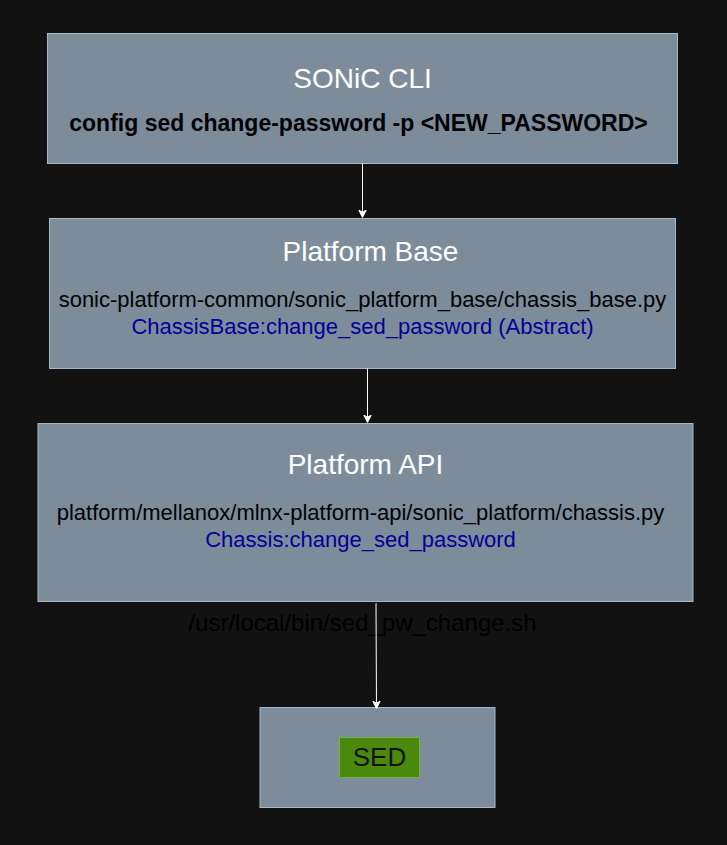
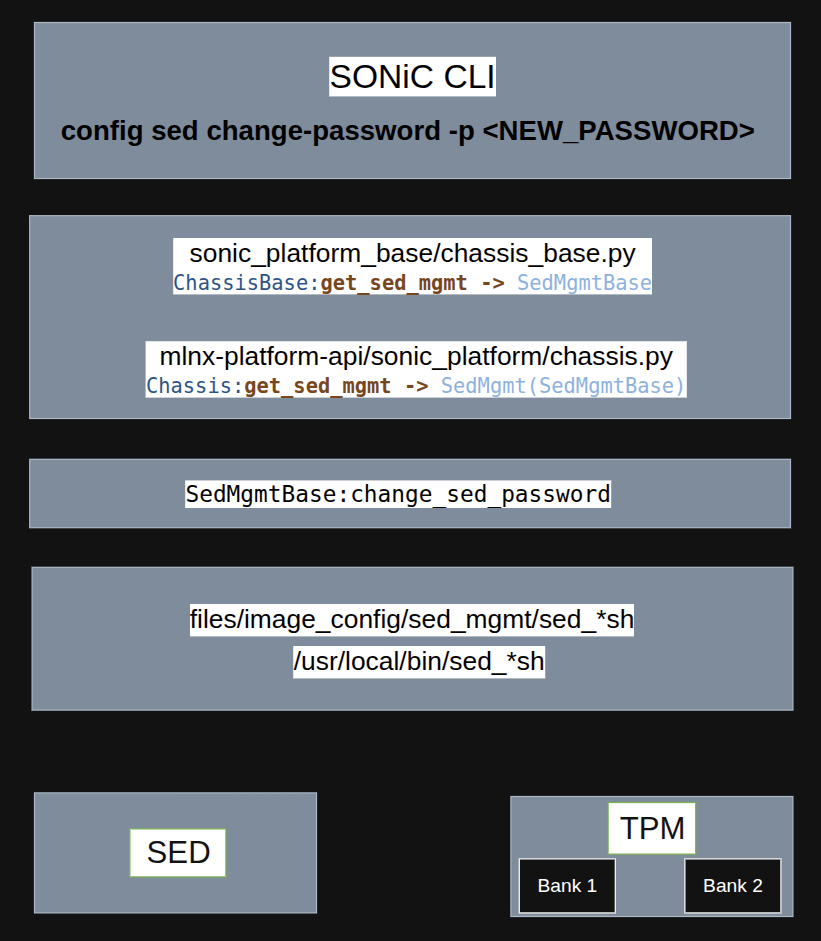
common hld

diff --git a/doc/sed/change_sed_password_hld.md b/doc/sed/change_sed_password_hld.md
@@ -4,93 +4,121 @@
 
 | Rev | Date | Author | Change Description |
 |:---:|:----:|:------:|:-------------------|
-| 0.1 | 01/2026 | | Initial version |
+| 0.1 | 03/2026 | | Initial version |
 
 ## 2. Scope
 
-This document describes the high-level design for "Change SED (Self-Encrypting Drive) password" in SONiC.
-It covers the ability to change and reset SED passwords through SONiC CLI commands using the platform API.
+This document describes the high-level design for SED (Self-Encrypting Drive) password management in SONiC.
+It covers changing and resetting SED passwords via SONiC CLI using the platform API.
 
 ## 3. Definitions/Abbreviations
 
 | Definitions/Abbreviation | Description |
 |--------------------------|-------------|
 | SED | Self-Encrypting Drive |
+| TPM | Trusted Platform Module |
+| PBA | Pre-boot Authentication |
 
 ## 4. Overview
 
-Self-Encrypting Drives (SEDs) provide hardware-based encryption for storage devices, protecting all data on the drive.
-SEDs are typically enabled at the factory, and come with a default password. Without the correct password, the drive remains locked and data is inaccessible.
-There is a dedicated software which responsible for unlocking the disk before the boot (PBA - Pre-boot Authentication) - It doesn't part of the NOS.
+Self-Encrypting Drives (SEDs) provide hardware-based encryption for storage devices.
+SEDs are typically enabled at the factory with a default password. Without the correct password, the drive remains locked and data is inaccessible.
+A dedicated pre-boot component (PBA) is responsible for unlocking the disk before the OS boots; that component is outside SONiC.
 
-A key use case is replacing the default password to improve security.
-While it is technically possible to change the SED password using external tools such as sedutil-cli, it is safer and more consistent to provide a SONiC CLI that wraps this functionality.
+A key use case is replacing the default password for security. SONiC provides a CLI that wraps SED password change and reset.
+The design is largely common across platforms:
+shared scripts and a recovery service use TPM banks to store and recover the SED password, with platform-specific values supplied via configuration and a small platform layer.
 
-SONiC's responsibility is to provide the CLI infrastructure to change and reset the SED password using a new SONiC CLI.
-This feature introduces vendor-agnostic CLI commands.
-The CLI provides a consistent interface, while the underlying implementation is platform-specific,
-allowing each vendor to integrate with its own tooling, secure storage mechanisms, and boot-time unlock flows according to the platform capabilities.
+- **Common:** CLI, `SedMgmtBase` API, `sedutil` package, scripts (`sed_pw_change.sh`, `sed_pw_reset.sh`, `sed_pw_utils.sh`, `sed_pw_tpm_recovery.sh`),
+recovery systemd service, and config file format (`/etc/sonic/sed_config.conf` for TPM bank addresses).
+- **Platform-specific:** Chassis returns a `SedMgmt` instance (or `None`), implementation of abstract getters (password length bounds, default password), and any platform-only scripts.
 
 ## 5. Requirements
 
 | Requirement | Description |
 |-------------|-------------|
-| SSD | SSD with an activated SED support (LockingEnabled = Y LockingSupported = Y) |
-| Platform Support | Platform must implement chassis APIs for SED management (`change_sed_password`, `reset_sed_password`) |
+| SSD | SSD with SED support enabled (e.g. LockingEnabled = Y, LockingSupported = Y) |
+| Platform support | Platform that supports SED management provides a `SedMgmt` implementation and exposes it via `chassis.get_sed_mgmt()`. |
+| TPM / config | For TPM-based platforms: TPM banks for current SED password (A/B). Config file `/etc/sonic/sed_config.conf` supplies `tpm_bank_a` and `tpm_bank_b` where applicable. |
 
 ## 6. Architecture Design
 
-The SED password management feature integrates with SONiC's existing platform API architecture. The CLI commands interact with the platform's chassis object to perform SED password operations.
+The feature integrates with SONiC's platform API:
 
-## 7. High-Level Design
-
-This feature is generic at the CLI and API level, but necessarily platform-specific at the execution layer.
-This is because SED enablement, tooling, cryptography, secret storage, and boot-time unlock flows are all vendor-defined and highly platform-dependent.
-This design follows the standard SONiC model:
-Common user interface + Abstract platform API + Vendor-owned implementation.
+- **CLI** (`config sed change-password`, `config sed reset-password`) obtains the chassis and calls `chassis.get_sed_mgmt()`.
+If the result is `None`, the CLI reports that SED management is not supported. Otherwise it calls `sed_mgmt.change_sed_password(password)` or `sed_mgmt.reset_sed_password()`.
+- **SedMgmtBase** (common) implements `change_sed_password` and `reset_sed_password` by validating input, gathering parameters from abstract getters, and invoking the common shell scripts.
+- **Platform** provides a concrete `SedMgmt` that implements the abstract getters (min/max password length, default password).
+- **Scripts** are common and parameterized: they receive TPM bank addresses and passwords as arguments or from the config file.
+- **Recovery service** It runs a common script to align the TPM banks in case one of them is corrupted.
 
 ![SED High Level Design](../../images/sed/sed_hld.png)
 
-### Module Elements Breakdown
+## 7. High-Level Design
 
-1. SONiC CLI creates a chassis object of the current platform (platform API).
-2. If the chassis object of the current platform has implementation for `change_sed_password`, it will be called.
-   Otherwise: "Error: SED management not supported on this platform"
-3. The same applies for `reset_sed_password`.
+### 7.1 API and Class Hierarchy
+
+- **ChassisBase** defines `get_sed_mgmt()` returning `self._sed_mgmt` (default `None`). Platforms that support SED override it to return a `SedMgmt` instance.
+- **SedMgmtBase** (common) defines the behavior of change and reset and relies on the following abstract getters implemented by the platform:
+  - `get_min_sed_password_len()` → int
+  - `get_max_sed_password_len()` → int
+  - `get_default_sed_password()` → str
+- **SedMgmt** extends `SedMgmtBase`, implements the abstract getters.
+
+### 7.2 Common Components
+
+| Component | Description |
+|-----------|-------------|
+| sed_pw_change.sh | Common script to change SED password. Invoked with `-a <tpm_bank_a> -b <tpm_bank_b> -p <new_password>`. |
+| sed_pw_reset.sh | Common script to reset SED password to a given value. Invoked with `-a -b -p <default_password>`; |
+| sed_pw_tpm_recovery.sh | Common recovery script: reads `tpm_bank_a` and `tpm_bank_b` from `/etc/sonic/sed_config.conf`; It runs TPM bank validation and recovery. |
+| sed-pw-tpm-recovery.service | Systemd oneshot service; runs `sed_pw_tpm_recovery.sh`. |
+
+### 7.3 Change Password Flow
+
+1. User runs `config sed change-password -p <NEW_PASSWORD>`.
+2. CLI gets chassis, then `chassis.get_sed_mgmt()`.
+3. CLI calls `sed_mgmt.change_sed_password(new_password)`.
+4. `SedMgmtBase.change_sed_password` validates length using `get_min_sed_password_len()` and `get_max_sed_password_len()`, then gets `get_tpm_bank_a_address()` and `get_tpm_bank_b_address()`.
+5. Base runs: `sed_pw_change.sh -a <bank_a> -b <bank_b> -p <new_password>`.
+
+![Change SED Password](../../images/sed/change_sed_pw.png)
+
+### 7.4 Reset Password Flow
+
+1. User runs `config sed reset-password`.
+2. CLI gets chassis, then `chassis.get_sed_mgmt()`.
+3. CLI calls `sed_mgmt.reset_sed_password()`.
+4. `SedMgmtBase.reset_sed_password` gets default password via `get_default_sed_password()` and TPM bank addresses;
+5. Base runs: `sed_pw_reset.sh -a <bank_a> -b <bank_b> -p <default_password>`.
+
+### 7.5 TPM Recovery Service Flow
+
+1. At boot, `sed-pw-tpm-recovery.service` runs `sed_pw_tpm_recovery.sh`.
+
+![SED TPM recovery](../../images/sed/sed_tpm_recovery.png)
 
 **Change SED Password:**
 ```python
 chassis = platform.Platform().get_chassis()
-chassis.change_sed_password(password)
+sed_mgmt = chassis.get_sed_mgmt()
+if sed_mgmt is None:
+    return
+sed_mgmt.change_sed_password(password)
 ```
 
 **Reset SED Password:**
 ```python
 chassis = platform.Platform().get_chassis()
-chassis.reset_sed_password()
+sed_mgmt = chassis.get_sed_mgmt()
+if sed_mgmt is None:
+    return
+sed_mgmt.reset_sed_password()
 ```
 
-### Change Password Flow
+## 8. CLI Reference
 
-The change password CLI command allows the user to set a new SED password.
-
-**CLI Command:**
-```
-config sed change-password -p <NEW_PASSWORD>
-```
-
-### Reset Password Flow
-
-The reset password CLI command allows the user to reset the SED password to default.
-
-**CLI Command:**
-```
-config sed reset-password
-```
-
-## 8. CLI Enhancements
-
-### Change Password CLI
+### 8.1 Change Password CLI
 
 Change the SED password to a new value:
 
@@ -111,9 +139,9 @@ admin@sonic:~$ config sed change-password -p <NEW_PASSWORD>
 SED password change process completed successfully
 ```
 
-### Reset Password CLI
+### 8.2 Reset Password CLI
 
-Reset the SED password to a default value
+Reset the SED password to the platform default:
 
 ```
 admin@sonic:~$ config sed reset-password --help
